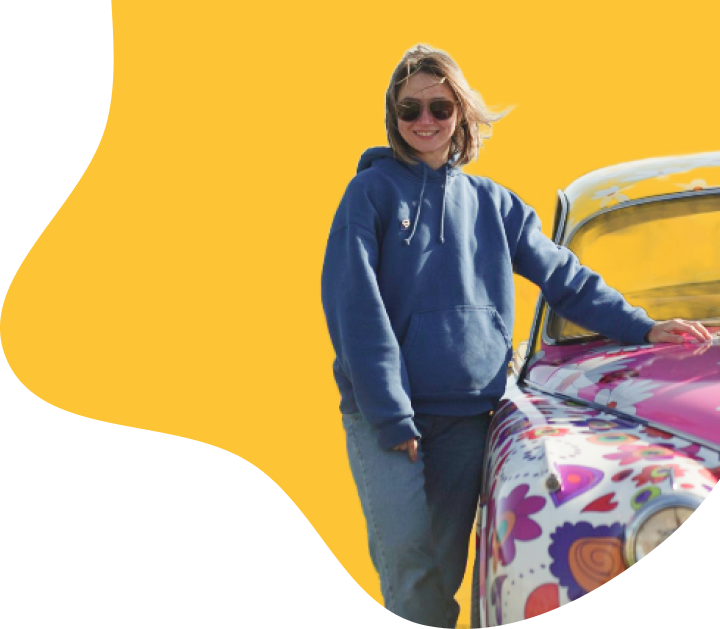
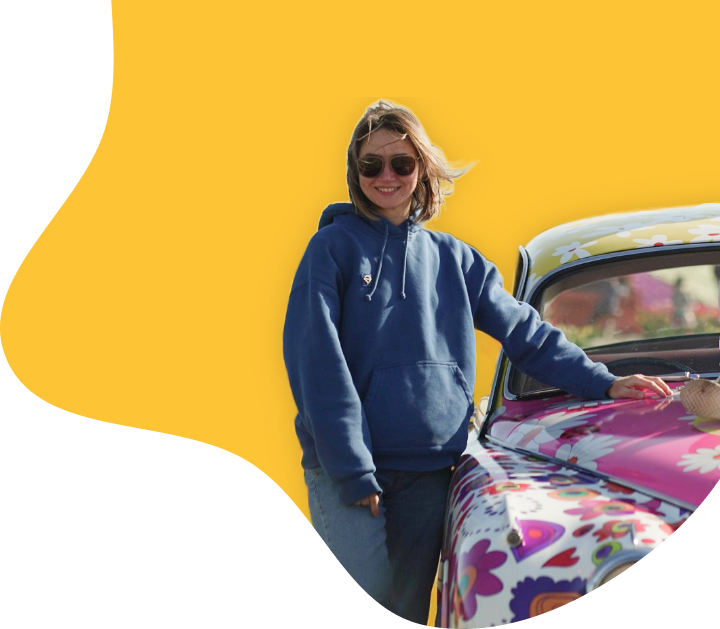
changed text

diff --git a/portfolio/index.html b/portfolio/index.html
@@ -29,12 +29,13 @@
     <main>
         <div class="intro-box">
             <div class="intro--short">
-                <p class="vacancy">FRONT-END DEVELOPER (JS)</p>
+                <p class="vacancy">FRONT-END DEVELOPER</p>
                 <div class="intro-text intro-text--short">
                     <h1>Hello, my name <br>is Nataliia</h1>
-                    <p>I'm cheerful and active person. I like to run and cycling. I love code and especially enjoy this
-                        moment when I forget about the time.</p>
-                    <div>
+                    <p>I am a Software Developer specializing in creating Web applications using a modern frontend tech
+                        stack.<br>Currently, I am actively seeking a new opportunity.
+                    </p>
+                    <div class="btn-container">
                         <a class="btn btn-primary" href='#projects'>Projects</a>
                         <a class="btn btn-secondary"
                             href='http://www.linkedin.com/in/nataliia-shobotova-912954b6/'>LinkedIn</a>
@@ -54,9 +55,9 @@
             <div class="project">
                 <div class="project-details">
                     <p class="project__name">Terrarium</p>
-                    <p class="project__desc">An interactive terrarium project created by the JavaScript, HTML5 and CSS
-                        that allow a user to manipulate the plants on the page (no drag and drop API, frameworks or
-                        libraries used).<br><br>Press on the picture and try it.</p>
+                    <p class="project__desc">This JavaScript, HTML, and CSS terrarium project lets users manipulate
+                        plants without using drag-and-drop frameworks or libraries.</p>
+                    <p class="project__desc">Please click on the picture and give it a try.</p>
                     <a class="btn btn-view-project-code" target="_blank"
                         href="https://github.com/samulikn/web-dev-for-beginners/tree/main/terrarium">View Project</a>
                 </div>
@@ -74,10 +75,11 @@
                 </div>
                 <div class="project-details">
                     <p class="project__name">Typing game</p>
-                    <p class="project__desc">This typing game is going to test a player's typing skill. The game builded
-                        by using Event-driven programming. To handle events (button clicking, typing, etc.), I
-                        registered event listeners and provided a function to execute. No frameworks or libraries
-                        used.<br><br>Press on the picture and try a game.</p>
+                    <p class="project__desc">This typing game is designed to test the player's typing skills. It was
+                        built using event-driven programming, which involved registering event listeners to handle
+                        actions such as button clicking and typing. No frameworks or libraries were used in the
+                        development of the game.</p>
+                    <p class="project__desc">Please click on the image and give the game a try.</p>
                     <a class="btn btn-view-project-code" target="_blank"
                         href="https://github.com/samulikn/web-dev-for-beginners/tree/main/typing-game">View Project</a>
                 </div>
@@ -85,10 +87,11 @@
             <div class="project">
                 <div class="project-details">
                     <p class="project__name">Space game</p>
-                    <p class="project__desc">By using the Canvas elements and cartesian coordinate system were drawed
-                        ships and heir movements around the screen. Implemented Pub-Sub pattern to create sound game
-                        architecture for collision detection. Leveraging Async/Await for keeping score. Handling
-                        keyboard events to end and restart the game.<br><br>Click on the picture and play the game.</p>
+                    <p class="project__desc">The game implementation utilizes Canvas elements and the Cartesian
+                        coordinate system to display ships and their movements on the screen. The Pub-Sub pattern is
+                        implemented to create a sound game architecture for collision detection. Async/Await is utilized
+                        to keep score, while keyboard events are handled to end and restart the game.</p>
+                    <p class="project__desc">To play the game, please click on the picture.</p>
                     <a class="btn btn-view-project-code" target="_blank"
                         href="https://github.com/samulikn/web-dev-for-beginners/tree/main/space-game/">View Project</a>
                 </div>
@@ -106,8 +109,9 @@
                 </div>
                 <div class="project-details">
                     <p class="project__name">Tic-Tac-Toe game</p>
-                    <p class="project__desc">It's interactive tic-tac-toe game build with React. Writing markup with
-                        JSX.<br><br>Click on the project's picture and try to play the game.</p>
+                    <p class="project__desc">This is an interactive tic-tac-toe game that has been built using React.
+                        The markup has been written using JSX.</p>
+                    <p class="project__desc">To play the game, please click on the picture.</p>
                     <a class="btn btn-view-project-code" target="_blank"
                         href="https://github.com/samulikn/react-projects/tree/main/game-xo/">View Project</a>
                 </div>
@@ -115,8 +119,8 @@
             <div class="project">
                 <div class="project-details">
                     <p class="project__name">Banking app</p>
-                    <p class="project__desc">Realized fictial web bank app. Provided routes, builded forms, managed
-                        state and implemented fetch data from an API.</p>
+                    <p class="project__desc">Implemented fetch data from an API, built forms, and managed state for a
+                        fictional web bank application using React JS library.</p>
                     <a class="btn btn-view-project-code" target="_blank"
                         href="https://github.com/samulikn/react-projects/tree/main/banking-app/">View Project</a>
                 </div>

diff --git a/portfolio/about.html b/portfolio/about.html
@@ -35,12 +35,15 @@
                 <div class="intro-text intro-text--main">
                     <h2>About me</h2>
                     <p>
-                        Welcome! I'm Nataliia, software developer. I have about 5 years experience as a database
-                        developer (SQL, Oracle). During my maternity leave I became to more interest and practice of
-                        front-end web and mobile technologies (HTML, CSS, JavaScript).<br>You can see some of my
-                        technical work on <a class="gitHub-projects" href="https://github.com/samulikn">GitHub</a>.
-                        <!--<br>My resume can be found <a class="gitHub-resume" href="https://samulikn.github.io/cv-shobotova/resume/">here</a>.-->
+                        Greetings! My name is Nataliia, an enthusiastic Software Developer with over five years of
+                        experience working in the finance and banking industry as an SQL developer. Recently, I have
+                        taken a leap of faith to pursue my passion for front-end web development. I have been honing my
+                        skills in HTML, CSS, and JavaScript, and have been creating web applications, including this
+                        website using Figma, Node.js, React, and SASS. Check out my work on <a class="gitHub-projects"
+                            href="https://github.com/samulikn">GitHub.</a>
                     </p>
+                    <p>As for my personality, I am a responsible and highly motivated individual who is constantly
+                        striving to learn and improve.</p>
                     <a class="btn btn-primary" href="https://samulikn.github.io/cv-shobotova/resume/CV.pdf"
                         download="cv-shobotova">Resume</a>
                 </div>

diff --git a/portfolio/css/slyles.scss b/portfolio/css/slyles.scss
@@ -102,6 +102,7 @@ a {
 }
 
 .profile-photo--small {
+  align-self: flex-start;
   flex-basis: 44%;
   flex-grow: 1;
   flex-shrink: 1;
@@ -158,6 +159,10 @@ h2 {
   font-size: 2.7em;
   font-weight: bold;
   line-height: 1.45em;
+}
+
+.btn-container {
+  display: inline-flex;
 }
 
 .btn {
@@ -256,7 +261,6 @@ h2 {
   height: 30rem;
   // object-fit: cover;
   border-radius: 0 1.3em 1.3em 0;
-
 }
 
 .project-screen--left {

diff --git a/portfolio/css/slyles.css b/portfolio/css/slyles.css
@@ -101,6 +101,7 @@ a {
 }
 
 .profile-photo--small {
+  align-self: flex-start;
   flex-basis: 44%;
   flex-grow: 1;
   flex-shrink: 1;
@@ -156,6 +157,10 @@ h2 {
   font-size: 2.7em;
   font-weight: bold;
   line-height: 1.45em;
+}
+
+.btn-container {
+  display: inline-flex;
 }
 
 .btn {
